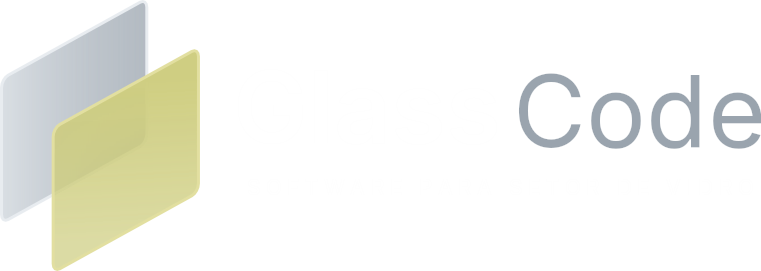
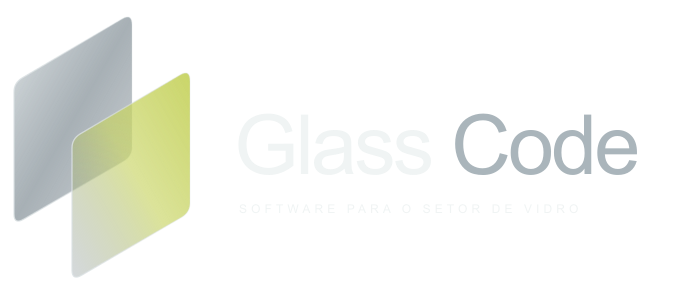
260926.2246

Changed region(s): [[0.0, 0.0, 0.27, 1.0], [0.63, 0.2657, 1.0, 0.5904], [0.03, 0.2066, 0.06, 0.2657]]

diff --git a/src/app/(auth)/login/login.module.css b/src/app/(auth)/login/login.module.css
@@ -31,3 +31,86 @@
 .submit{background:var(--primary);color:var(--on-primary)}
 .submit:hover{background:var(--primary-hover)}
 .fields input:-webkit-autofill{-webkit-text-fill-color:var(--text-primary);box-shadow:0 0 0 1000px var(--surface-secondary) inset}
+
+
+/* Abertura Glass Code: luz, vidro e desenho técnico, sem movimento contínuo. */
+.story { isolation: isolate; }
+.story::after {
+  content: "";
+  position: absolute;
+  inset: 0;
+  z-index: -1;
+  pointer-events: none;
+  background: radial-gradient(ellipse at 75% 35%, color-mix(in srgb, var(--gc-lime) 8%, transparent), transparent 65%);
+}
+.brandBackdrop {
+  position: absolute;
+  right: -85px;
+  top: 8%;
+  width: min(420px, 65%);
+  height: 480px;
+  opacity: .055;
+  pointer-events: none;
+  z-index: -1;
+  transform: rotate(-8deg);
+}
+.blueprint { position: relative; }
+.glassReflection {
+  position: absolute;
+  inset: 0;
+  z-index: 1;
+  pointer-events: none;
+  background: linear-gradient(110deg, transparent 35%, rgba(255,255,255,.075) 49%, transparent 63%);
+  opacity: 0;
+}
+.eyebrow > span, .drawingFooter .dot { background: var(--gc-lime); }
+.features svg { color: var(--gc-lime); }
+.fields input:focus {
+  border-color: var(--gc-lime);
+  box-shadow: 0 0 0 3px color-mix(in srgb, var(--gc-lime) 14%, transparent);
+}
+.submit svg { transition: transform 200ms ease; }
+.submit:hover svg { transform: translateX(3px); }
+.inputWrap:focus-within > svg { color: var(--text-primary); }
+.formCard { animation: none; }
+.slidingGlass { animation: none; }
+
+@media (prefers-reduced-motion: no-preference) {
+  .brand { animation: cinemaEntry 650ms ease-out backwards; }
+  .storyContent > .eyebrow { animation: cinemaEntry 650ms 80ms ease-out backwards; }
+  .story h1 { animation: cinemaEntry 850ms 160ms cubic-bezier(.2,.7,.2,1) backwards; }
+  .storyContent > p { animation: cinemaEntry 700ms 250ms ease-out backwards; }
+  .blueprint { animation: cinemaEntry 900ms 320ms ease-out backwards; }
+  .features { animation: cinemaEntry 750ms 500ms ease-out backwards; }
+  .brandBackdrop { animation: brandArrival 1800ms ease-out backwards; }
+  .glassReflection { animation: reflectionPass 2600ms 650ms ease-in-out; }
+  .slidingGlass { animation: slide 3800ms 500ms ease-in-out both; }
+  .frame { animation-duration: 2200ms; }
+  .formCard { animation: formArrival 600ms ease-out; }
+}
+
+@keyframes cinemaEntry {
+  from { opacity: 0; translate: 0 14px; }
+  to { opacity: 1; translate: 0 0; }
+}
+@keyframes brandArrival {
+  from { opacity: 0; translate: 25px 12px; }
+  to { opacity: .055; translate: 0 0; }
+}
+@keyframes reflectionPass {
+  0% { opacity: 0; translate: -65% 0; }
+  25%, 60% { opacity: 1; }
+  100% { opacity: 0; translate: 65% 0; }
+}
+@keyframes formArrival {
+  from { translate: 10px 0; }
+  to { translate: 0 0; }
+}
+@media (max-width:760px) {
+  .brandBackdrop { top: -65px; right: -15px; height: 270px; width: 200px; }
+}
+@media (prefers-reduced-motion:reduce) {
+  .story::before, .story::after { animation: none; }
+  .glassReflection { display: none; }
+  .submit:hover, .submit:hover svg { transform: none; }
+}

diff --git a/src/components/Header.tsx b/src/components/Header.tsx
@@ -3,6 +3,7 @@
 
 import { useState, useRef, useEffect } from "react";
 import Link from "next/link";
+import Image from "next/image";
 import { usePathname, useRouter } from "next/navigation";
 import {Building2,ChevronDown,Settings,Palette,LogOut, TableProperties,Headphones,} from "lucide-react";
 import ThemeSelect from "@/components/ThemeSelect";
@@ -166,78 +167,7 @@ const { theme } = useTheme();
   aria-label="Glass Code - Dashboard"
   className="group flex shrink-0 items-center gap-[9px]"
 >
-  {/* =====================================================
-      SÍMBOLO GLASS CODE
-      Recriado em CSS na proporção da marca oficial
-     ===================================================== */}
-  {/* SÍMBOLO GLASS CODE — PROPORÇÃO RETANGULAR */}
-<div
-  className="relative h-[38px] w-[44px] shrink-0"
-  aria-hidden="true"
->
-{/* LÂMINA TRASEIRA — CINZA */}
-<span
-  className="
-    absolute
-    left-0
-    top-[2px]
-    h-[27px]
-    w-[30px]
-    overflow-hidden
-    rounded-[2px]
-    border
-    border-[#B9C1C6]/80
-    [transform:skewY(-28deg)]
-  "
-style={{
-  background:
-    "linear-gradient(to top right, rgba(143,154,161,.42) 0%, rgba(143,154,161,.60) 52%, rgba(143,154,161,.78) 100%)",
-}}
->
-  <span
-    className="
-      absolute inset-[1px]
-      rounded-[3px]
-      bg-gradient-to-tr
-      from-white/[0.12]
-      via-white/[0.04]
-      to-transparent
-    "
-  />
-</span>
-
- 
- {/* LÂMINA FRONTAL — LIMA */}
-<span
-  className="
-    absolute
-    right-0
-    bottom-[1px]
-    h-[27px]
-    w-[30px]
-    overflow-hidden
-    rounded-[2px]
-    border
-    border-[#E4E39A]/90
-    [transform:skewY(-28deg)]
-  "
-style={{
-  background:
-    "linear-gradient(to top, rgba(200,212,99,.42) 0%, rgba(200,212,99,.60) 52%, rgba(200,212,99,.78) 100%)",
-}}
->
-  <span
-    className="
-      absolute inset-[1px]
-      rounded-[3px]
-      bg-gradient-to-br
-      from-white/[0.18]
-      via-white/[0.06]
-      to-transparent
-    "
-  />
-</span>
-</div>
+  <Image src="/glasscode-icon.svg" alt="" width={30} height={44} unoptimized className="shrink-0 object-contain" />
 
   {/* =====================================================
       GLASS CODE

diff --git a/src/app/(auth)/login/page.tsx b/src/app/(auth)/login/page.tsx
@@ -60,8 +60,9 @@ const LoginPage = () => {
         return;
       }
 
+      // Um login válido inicia uma nova contagem de inatividade antes de abrir o ERP.
+      localStorage.setItem("glasscode:last-activity-at", String(Date.now()));
       router.replace("/dashboard");
-      router.refresh(); // Garante atualização da sessão
 
    } catch (err: unknown) {
   const message = err instanceof Error ? err.message : "Erro ao conectar com o servidor.";
@@ -193,12 +194,16 @@ const LoginPage = () => {
   return (
     <main className={styles.page}>
       <section className={styles.story} aria-label="GlassCode — software para setor de vidro">
+        <div className={styles.brandBackdrop} aria-hidden="true">
+          <Image src="/glasscode-icon.png" alt="" fill sizes="420px" unoptimized style={{ objectFit: 'contain' }} />
+        </div>
         <div className={styles.brand}><Image src="/glasscode-icon.png" alt="" width={35} height={48} unoptimized priority style={{ objectFit: 'contain', flexShrink: 0 }} /><span>glass<span className={styles.brandLight}>code</span><small>SOFTWARE PARA SETOR DE VIDRO</small></span></div>
         <div className={styles.storyContent}>
           <span className={styles.eyebrow}><span /> DA IDEIA À INSTALAÇÃO</span>
           <h1>Precisão em cada corte.<br /><em>Controle em cada projeto.</em></h1>
           <p>Sua vidraçaria conectada, do primeiro orçamento ao último detalhe.</p>
           <div className={styles.blueprint}>
+            <span className={styles.glassReflection} aria-hidden="true" />
             <div className={styles.drawingTitle}><span>ESTUDO DE PROJETO</span><span>01 / JANELA DE CORRER</span></div>
             <svg viewBox="0 0 560 320" role="img" aria-label="Desenho animado de uma janela de correr com duas folhas">
               <defs><linearGradient id="login-glass" x1="0" y1="0" x2="1" y2="1"><stop stopColor={DRAWING_COLORS.frame} stopOpacity=".2"/><stop offset="1" stopColor={DRAWING_COLORS.frame} stopOpacity=".02"/></linearGradient></defs>

diff --git a/src/app/(site)/recursos/recursos.module.css b/src/app/(site)/recursos/recursos.module.css
@@ -3433,3 +3433,31 @@
     flex-direction: column;
   }
 }
+/* Abertura suave e detalhes consistentes com a identidade Glass Code. */
+.hero h1 { text-wrap: balance; }
+.hero p { text-wrap: pretty; }
+.hero a, .finalCta a { transition: transform 180ms ease, border-color 180ms ease; }
+@media (hover: hover) {
+  .hero a:hover, .finalCta a:hover { transform: translateY(-2px); }
+}
+@media (prefers-reduced-motion: no-preference) {
+  .hero h1 { animation: opening 650ms ease-out backwards; }
+  .hero p { animation: opening 650ms 100ms ease-out backwards; }
+  .heroVisual { animation: opening 800ms 160ms ease-out backwards; }
+}
+@keyframes opening {
+  from { opacity: 0; translate: 0 12px; }
+  to { opacity: 1; translate: 0 0; }
+}
+@media (prefers-reduced-motion: reduce) {
+  .page *, .page *::before, .page *::after { animation: none !important; transition: none !important; }
+  .hero a:hover, .finalCta a:hover { transform: none; }
+}
+
+.visualCard { transition: border-color 220ms ease, box-shadow 220ms ease; }
+.feature:hover .visualCard { border-color: color-mix(in srgb, var(--gc-lime) 55%, var(--border)); }
+.doorMovingLeft, .doorMovingRight { animation: none; }
+@media (prefers-reduced-motion: no-preference) {
+  .feature[data-site-revealed="true"] .doorMovingLeft { animation: openLeftDoor 3800ms 200ms ease-in-out both; }
+  .feature[data-site-revealed="true"] .doorMovingRight { animation: openRightDoor 3800ms 200ms ease-in-out both; }
+}

diff --git a/src/app/(site)/como-funciona/como-funciona.module.css b/src/app/(site)/como-funciona/como-funciona.module.css
@@ -884,3 +884,33 @@
 .secondaryButton {
   font-weight: 650;
 }
+/* Abertura suave e detalhes consistentes com a identidade Glass Code. */
+.hero h1 { text-wrap: balance; }
+.hero p { text-wrap: pretty; }
+.hero a, .finalCta a { transition: transform 180ms ease, border-color 180ms ease; }
+@media (hover: hover) {
+  .hero a:hover, .finalCta a:hover { transform: translateY(-2px); }
+}
+@media (prefers-reduced-motion: no-preference) {
+  .hero h1 { animation: opening 650ms ease-out backwards; }
+  .hero p { animation: opening 650ms 100ms ease-out backwards; }
+  .heroVisual { animation: opening 800ms 160ms ease-out backwards; }
+}
+@keyframes opening {
+  from { opacity: 0; translate: 0 12px; }
+  to { opacity: 1; translate: 0 0; }
+}
+@media (prefers-reduced-motion: reduce) {
+  .page *, .page *::before, .page *::after { animation: none !important; transition: none !important; }
+  .hero a:hover, .finalCta a:hover { transform: none; }
+}
+
+.step { transition: border-color 200ms ease; }
+.step:hover { border-color: var(--gc-lime); }
+.intro { scroll-margin-top: 24px; }
+@media (prefers-reduced-motion: no-preference) {
+  .flowCustomer { animation: opening 500ms 200ms ease-out backwards; }
+  .flowProject { animation: opening 500ms 400ms ease-out backwards; }
+  .flowData { animation: opening 500ms 600ms ease-out backwards; }
+  .flowTotal { animation: opening 500ms 800ms ease-out backwards; }
+}

diff --git a/src/components/SiteMotion.tsx b/src/components/SiteMotion.tsx
@@ -1,0 +1,23 @@
+"use client";
+
+import { useEffect, useRef, type ReactNode } from "react";
+import styles from "./SiteMotion.module.css";
+
+export default function SiteMotion({ children, className }: { children: ReactNode; className: string }) {
+  const root = useRef<HTMLElement>(null);
+  useEffect(() => {
+    if (!root.current || !('IntersectionObserver' in window)) return;
+    const preference = window.matchMedia('(prefers-reduced-motion: reduce)');
+    if (preference.matches) return;
+    const observer = new IntersectionObserver(entries => {
+      entries.forEach(entry => {
+        if (!entry.isIntersecting) return;
+        entry.target.setAttribute('data-site-revealed', 'true');
+        observer.unobserve(entry.target);
+      });
+    }, { threshold: 0.08 });
+    root.current.querySelectorAll('article').forEach(element => observer.observe(element));
+    return () => observer.disconnect();
+  }, []);
+  return <main ref={root} className={`${className} ${styles.page}`}>{children}</main>;
+}

diff --git a/src/app/(site)/como-funciona/page.tsx b/src/app/(site)/como-funciona/page.tsx
@@ -1,6 +1,7 @@
 "use client";
 
 import Link from "next/link";
+import SiteMotion from "@/components/SiteMotion";
 import Image from "next/image";
 import styles from "./como-funciona.module.css";
 
@@ -150,7 +151,7 @@ function FlowVisual() {
 
 export default function ComoFuncionaPage() {
     return (
-        <main className={styles.page}>
+        <SiteMotion className={styles.page}>
             <header className={styles.header}>
                 <div className={styles.headerInner}>
                     <Link href="/" className={styles.brand}>
@@ -372,6 +373,6 @@ export default function ComoFuncionaPage() {
                     </div>
                 </div>
             </section>
-        </main>
+        </SiteMotion>
     );
 }

diff --git a/src/app/(site)/recursos/page.tsx b/src/app/(site)/recursos/page.tsx
@@ -1,4 +1,5 @@
 import Link from "next/link";
+import SiteMotion from "@/components/SiteMotion";
 import Image from "next/image";
 import styles from "./recursos.module.css";
 import type { Metadata } from "next";
@@ -822,7 +823,7 @@ function FeatureVisual({ tipo }: { tipo: string }) {
 
 export default function RecursosPage() {
   return (
-    <main className={styles.page}>
+    <SiteMotion className={styles.page}>
       <header className={styles.header}>
         <div className={styles.headerInner}>
           <Link href="/" className={styles.brand}>
@@ -998,6 +999,6 @@ export default function RecursosPage() {
           </div>
         </div>
       </section>
-    </main>
+    </SiteMotion>
   );
 }

diff --git a/src/components/SiteMotion.module.css b/src/components/SiteMotion.module.css
@@ -1,0 +1,9 @@
+@media (prefers-reduced-motion: no-preference) {
+  .page [data-site-revealed="true"] {
+    animation: reveal 650ms cubic-bezier(.2,.7,.2,1) backwards;
+  }
+}
+@keyframes reveal {
+  from { opacity: 0; translate: 0 18px; }
+  to { opacity: 1; translate: 0 0; }
+}
